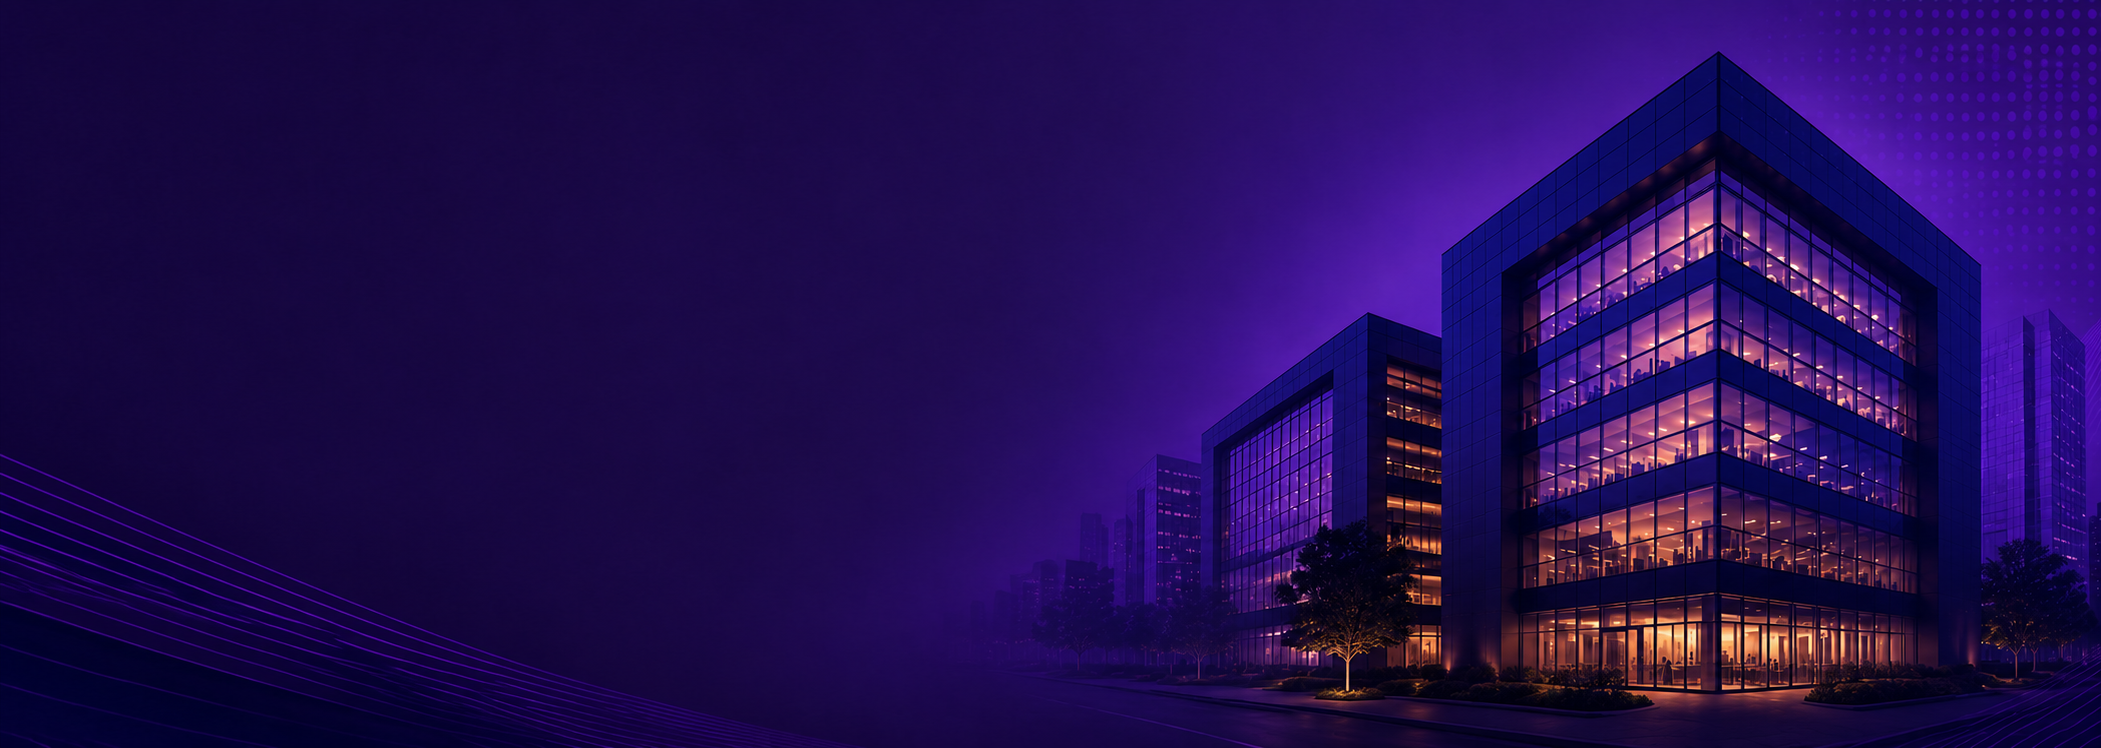
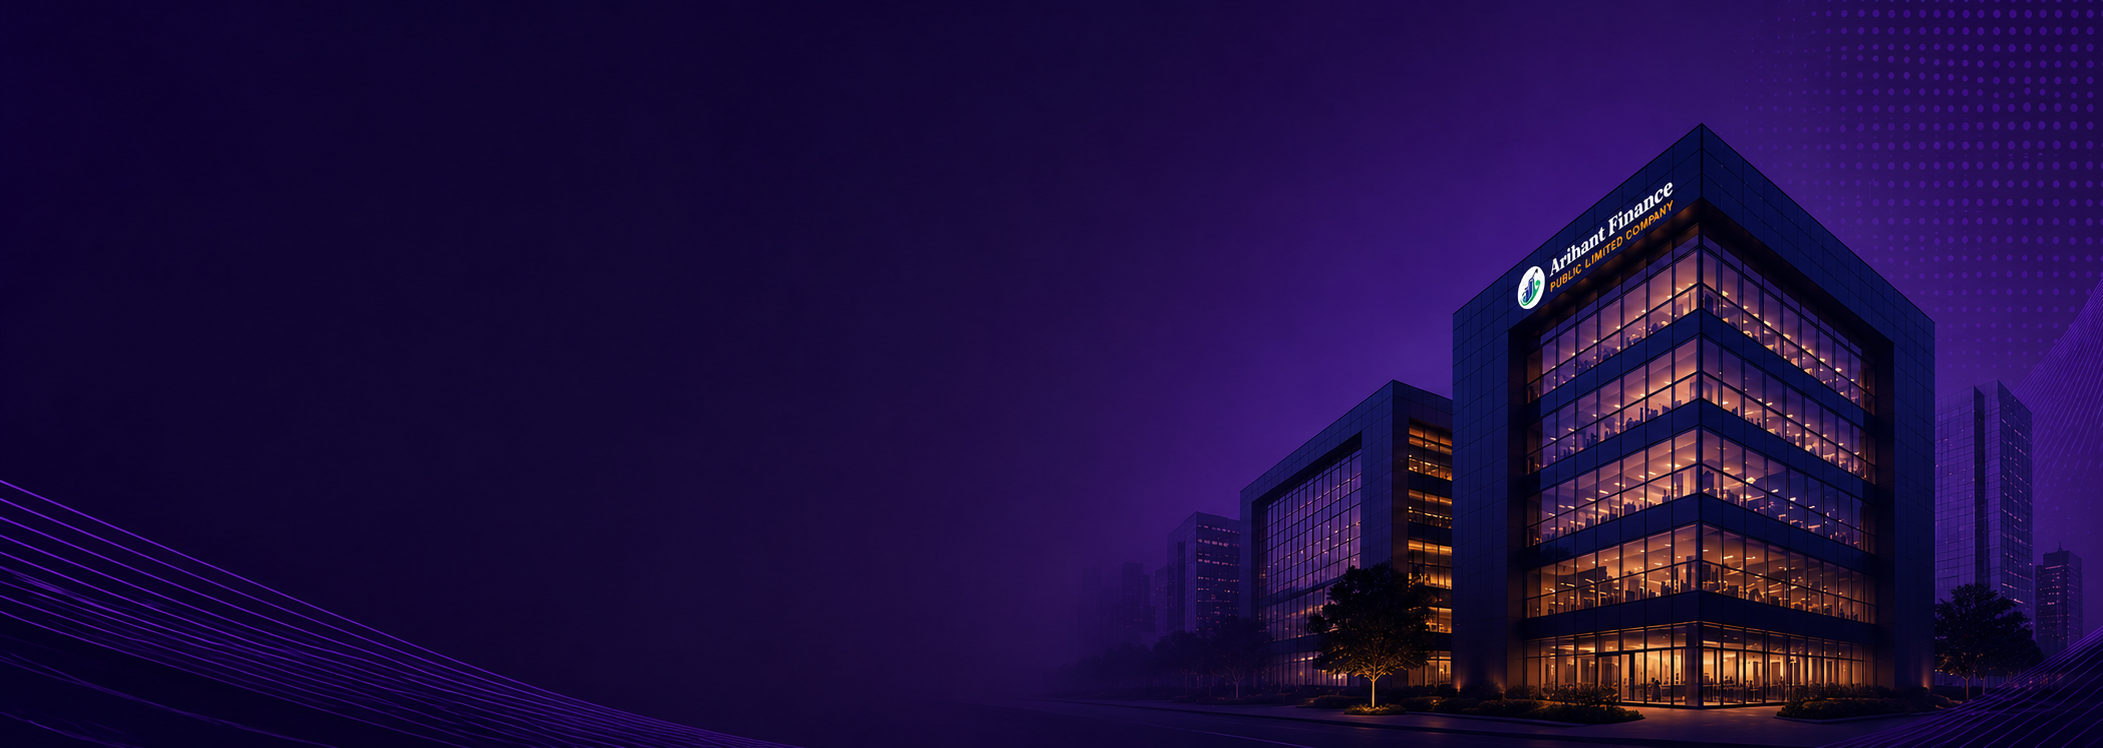
Updated contact page

diff --git a/about.html b/about.html
@@ -5,7 +5,7 @@
 <meta name="viewport" content="width=device-width, initial-scale=1.0" />
 <title>About Us — Arihant Finance Public Limited Company</title>
 <link rel="stylesheet" href="common/common.css?v=2" />
-<link rel="stylesheet" href="about.css?v=2" />
+<link rel="stylesheet" href="about.css?v=3" />
 </head>
 <body>
 
@@ -66,10 +66,10 @@
       </div>
       <div>
         <div class="eyebrow">Our Story</div>
-        <h2 class="section-title">Building Trust Through Responsible Finance Since 1993</h2>
-        <p class="prose">Arihant Finance (India) Limited was incorporated in 1993 with a vision to provide reliable, transparent, and customer-focused financial services. Over the years, the company has established itself as a trusted Non-Banking Financial Company (NBFC), committed to supporting individuals, businesses, and entrepreneurs with financial solutions that promote sustainable growth.</p>
-        <p class="prose">Driven by strong corporate governance, regulatory compliance, and ethical business practices, Arihant Finance has continuously strengthened its operations while maintaining the confidence of its customers, shareholders, and stakeholders. The company believes that financial services should be built on integrity, accountability, and long-term relationships.Today, we continue to strengthen our services through innovation, financial transparency, and a customer-first approach, creating long-term value for our customers, shareholders, and the communities we serve.</p>
-        <p class="story-legal"><span id="aboutSeal" class="story-legal-seal"></span> Registered as a Public Limited Company and RBI-registered Non-Banking Financial Company (NBFC), Arihant Finance (India) Limited has been serving customers with integrity, financial discipline, and regulatory compliance since 1993.</p>
+        <h2 class="section-title">From one branch in Jaipur to a public limited company.</h2>
+        <p class="prose">Arihant Finance was founded in 1998 with a single lending desk and a simple conviction: that a transparent ledger builds more trust than a persuasive sales pitch. What began with joint-liability group loans for local self-help groups has grown into a network of 142 branches, serving families, farmers and small businesses across Rajasthan and beyond.</p>
+        <p class="prose">In 2012, the company converted into a public limited company to access long-term capital for responsible lending at scale — without losing the doorstep relationship that defined our first branch. Every product we've added since, from dairy loans to SME finance, has been built the same way: understand the income cycle first, then design the repayment plan around it.</p>
+        <p class="story-legal"><span id="aboutSeal" class="story-legal-seal"></span> Registered as a Public Limited Company under the Companies Act. CIN and NBFC registration details available on request at any branch.</p>
       </div>
     </div>
   </section>

diff --git a/about.css b/about.css
@@ -6,8 +6,8 @@
   display: flex; align-items: center;
   color: var(--paper);
 }
-.page-hero-image h1 { color: var(--paper); font-size: clamp(30px, 4.4vw, 46px); max-width: 700px; margin-bottom: 14px; }
-.page-hero-image p { color: rgba(253,252,251,0.7); max-width: 560px; font-size: 16px; margin: 0; }
+.page-hero-image h1 { color: var(--paper); font-size: clamp(30px, 4.4vw, 46px); max-width: 620px; margin-bottom: 14px; }
+.page-hero-image p { color: rgba(253,252,251,0.7); max-width: 520px; font-size: 16px; margin: 0; }
 @media (max-width: 640px) {
   .page-hero-image { aspect-ratio: 4 / 3; max-height: 420px; }
 }